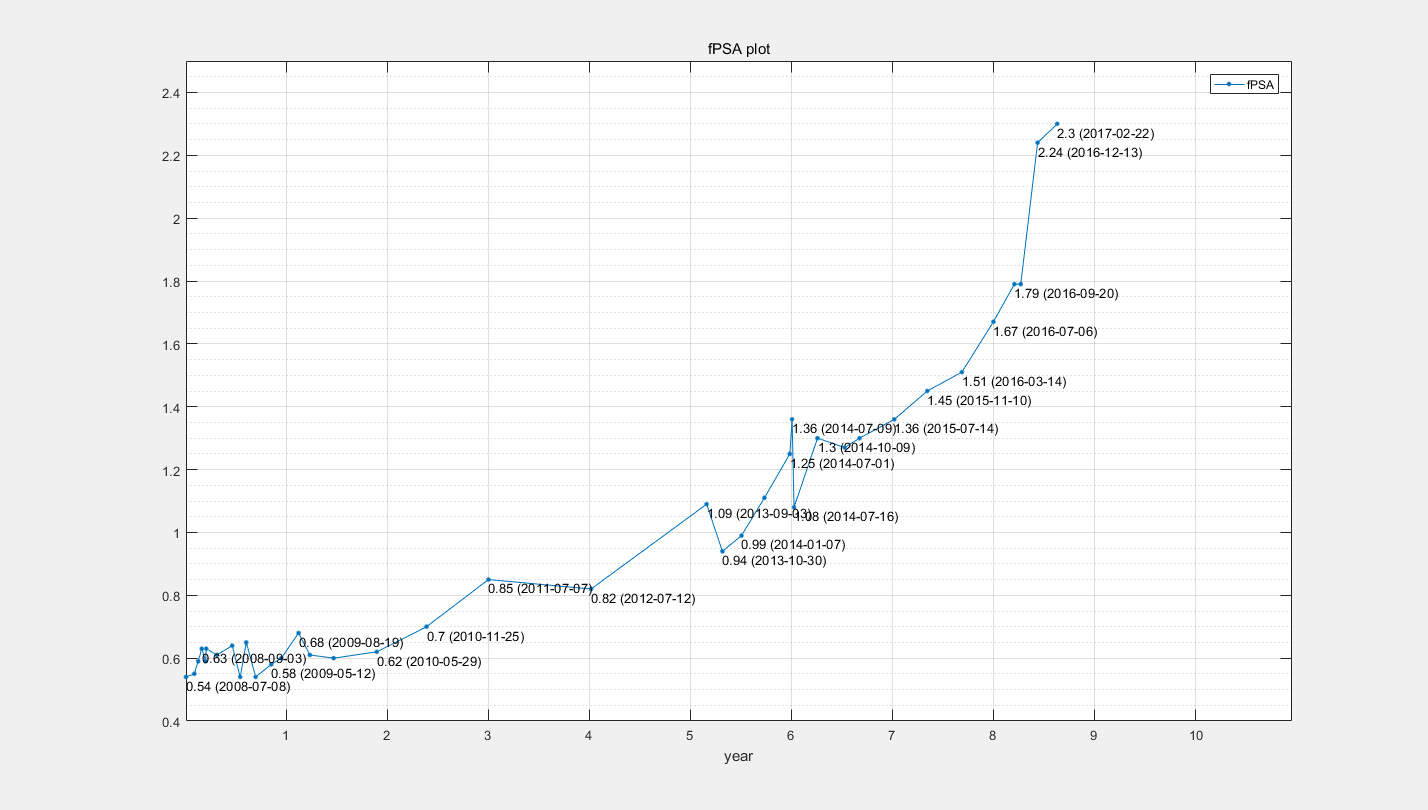
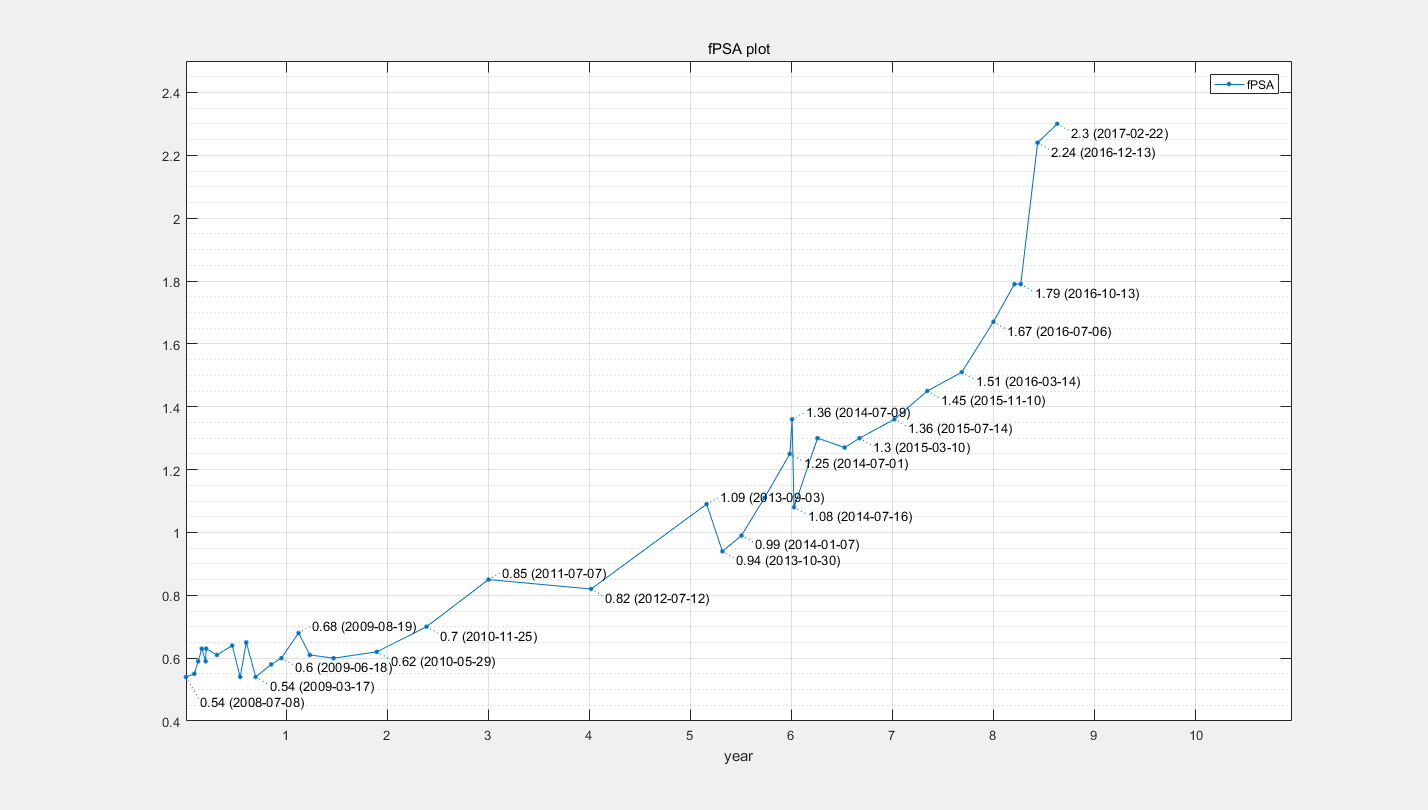
Fix some display position

diff --git a/PSA.m b/PSA.m
@@ -35,15 +35,35 @@ for i=1:2
     xlabel('year');
     flag=ones(n);
     num=1;
-    for j=1:n
-        for k=1:j-1
+    for j=n:-1:1
+        for k=n:-1:j+1
             if(abs(data(k,i+2)-data(j,i+2))<err(i)&&abs(time(k)-time(j))<300&&flag(k)==1)
                 flag(j)=0;
                 break;
             end
         end
-        if(flag(j))
-            text(time(j),data(j,i+2)-err(i)/2,[num2str(data(j,i+2)) ' (' timestr(j,:) ')']);
+        symbol=0;
+        if(j==1)
+            symbol=-3;
+        elseif(j==n)
+            symbol=-1;
+        elseif(data(j,i+2)>data(j+1,i+2)&&flag(j))
+            symbol=1;
+        elseif(flag(j))
+            symbol=-1;
+        else
+            for k=j+1:n
+                if(data(j,i+2)>data(k,i+2))
+                    if(abs(time(k)-time(j))>300||k==n)
+                        symbol=1;
+                    end
+                else break;
+                end
+            end
+        end
+        if(symbol~=0)    
+            line(time(j)+[0,50],data(j,i+2)+[0,symbol*err(i)/2],'LineStyle',':');
+            text(time(j)+50,data(j,i+2)+symbol*err(i)/2,[num2str(data(j,i+2)) ' (' timestr(j,:) ')']);
             num=num+1;
         end
     end
